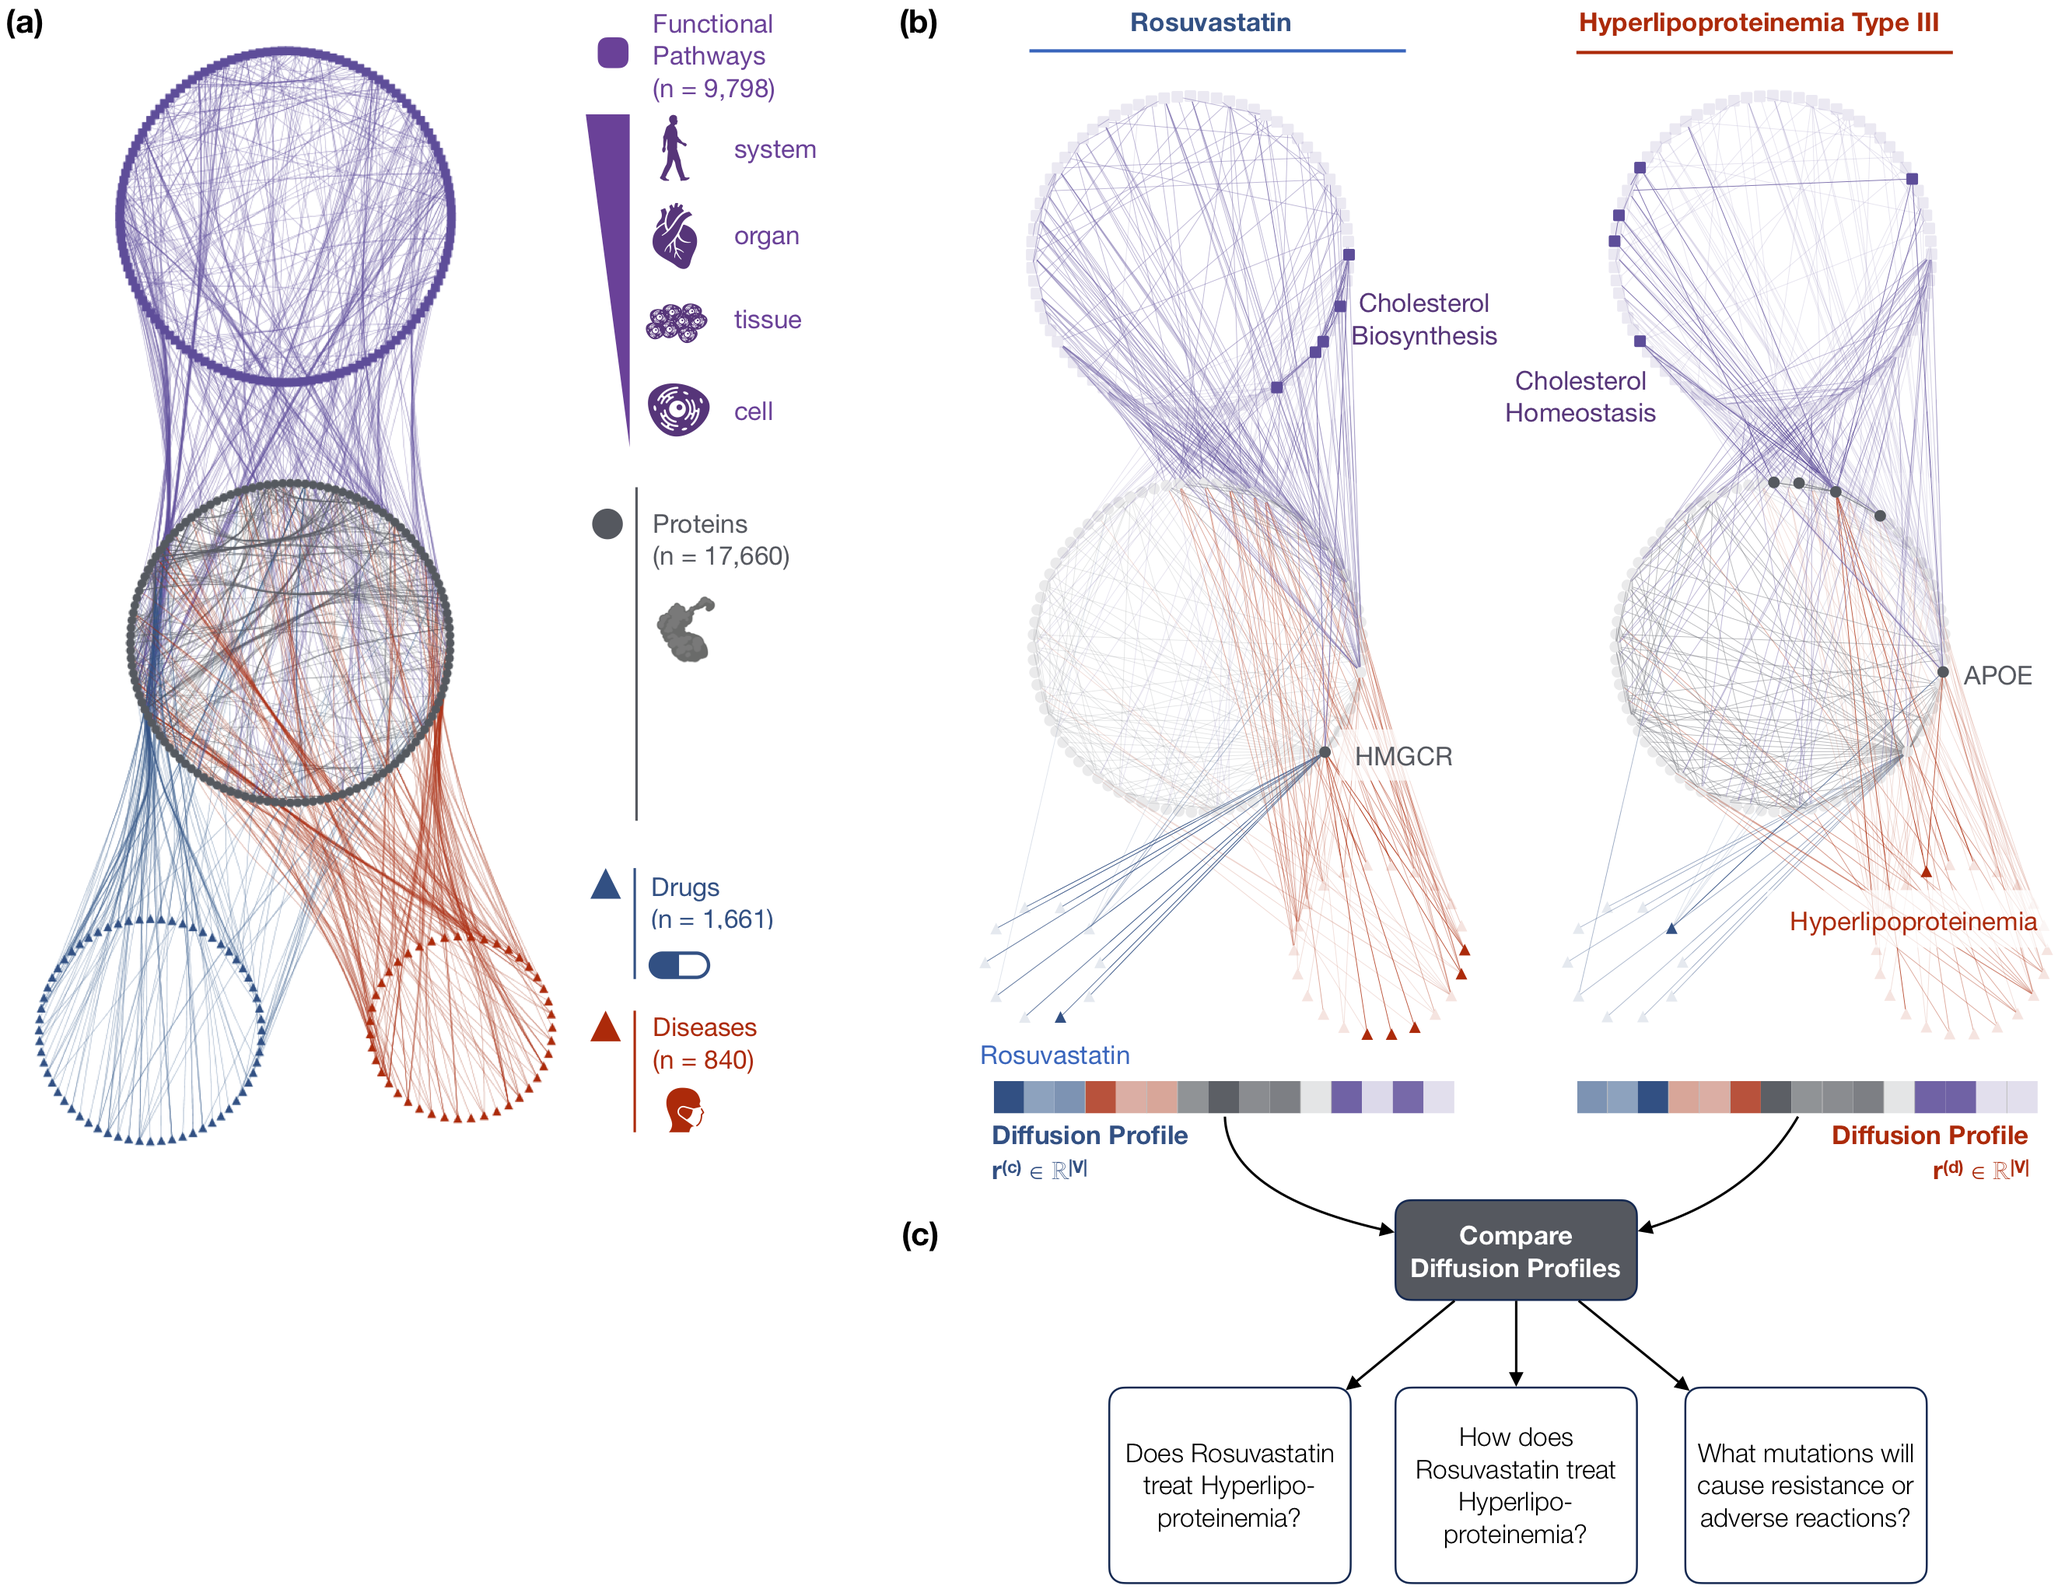
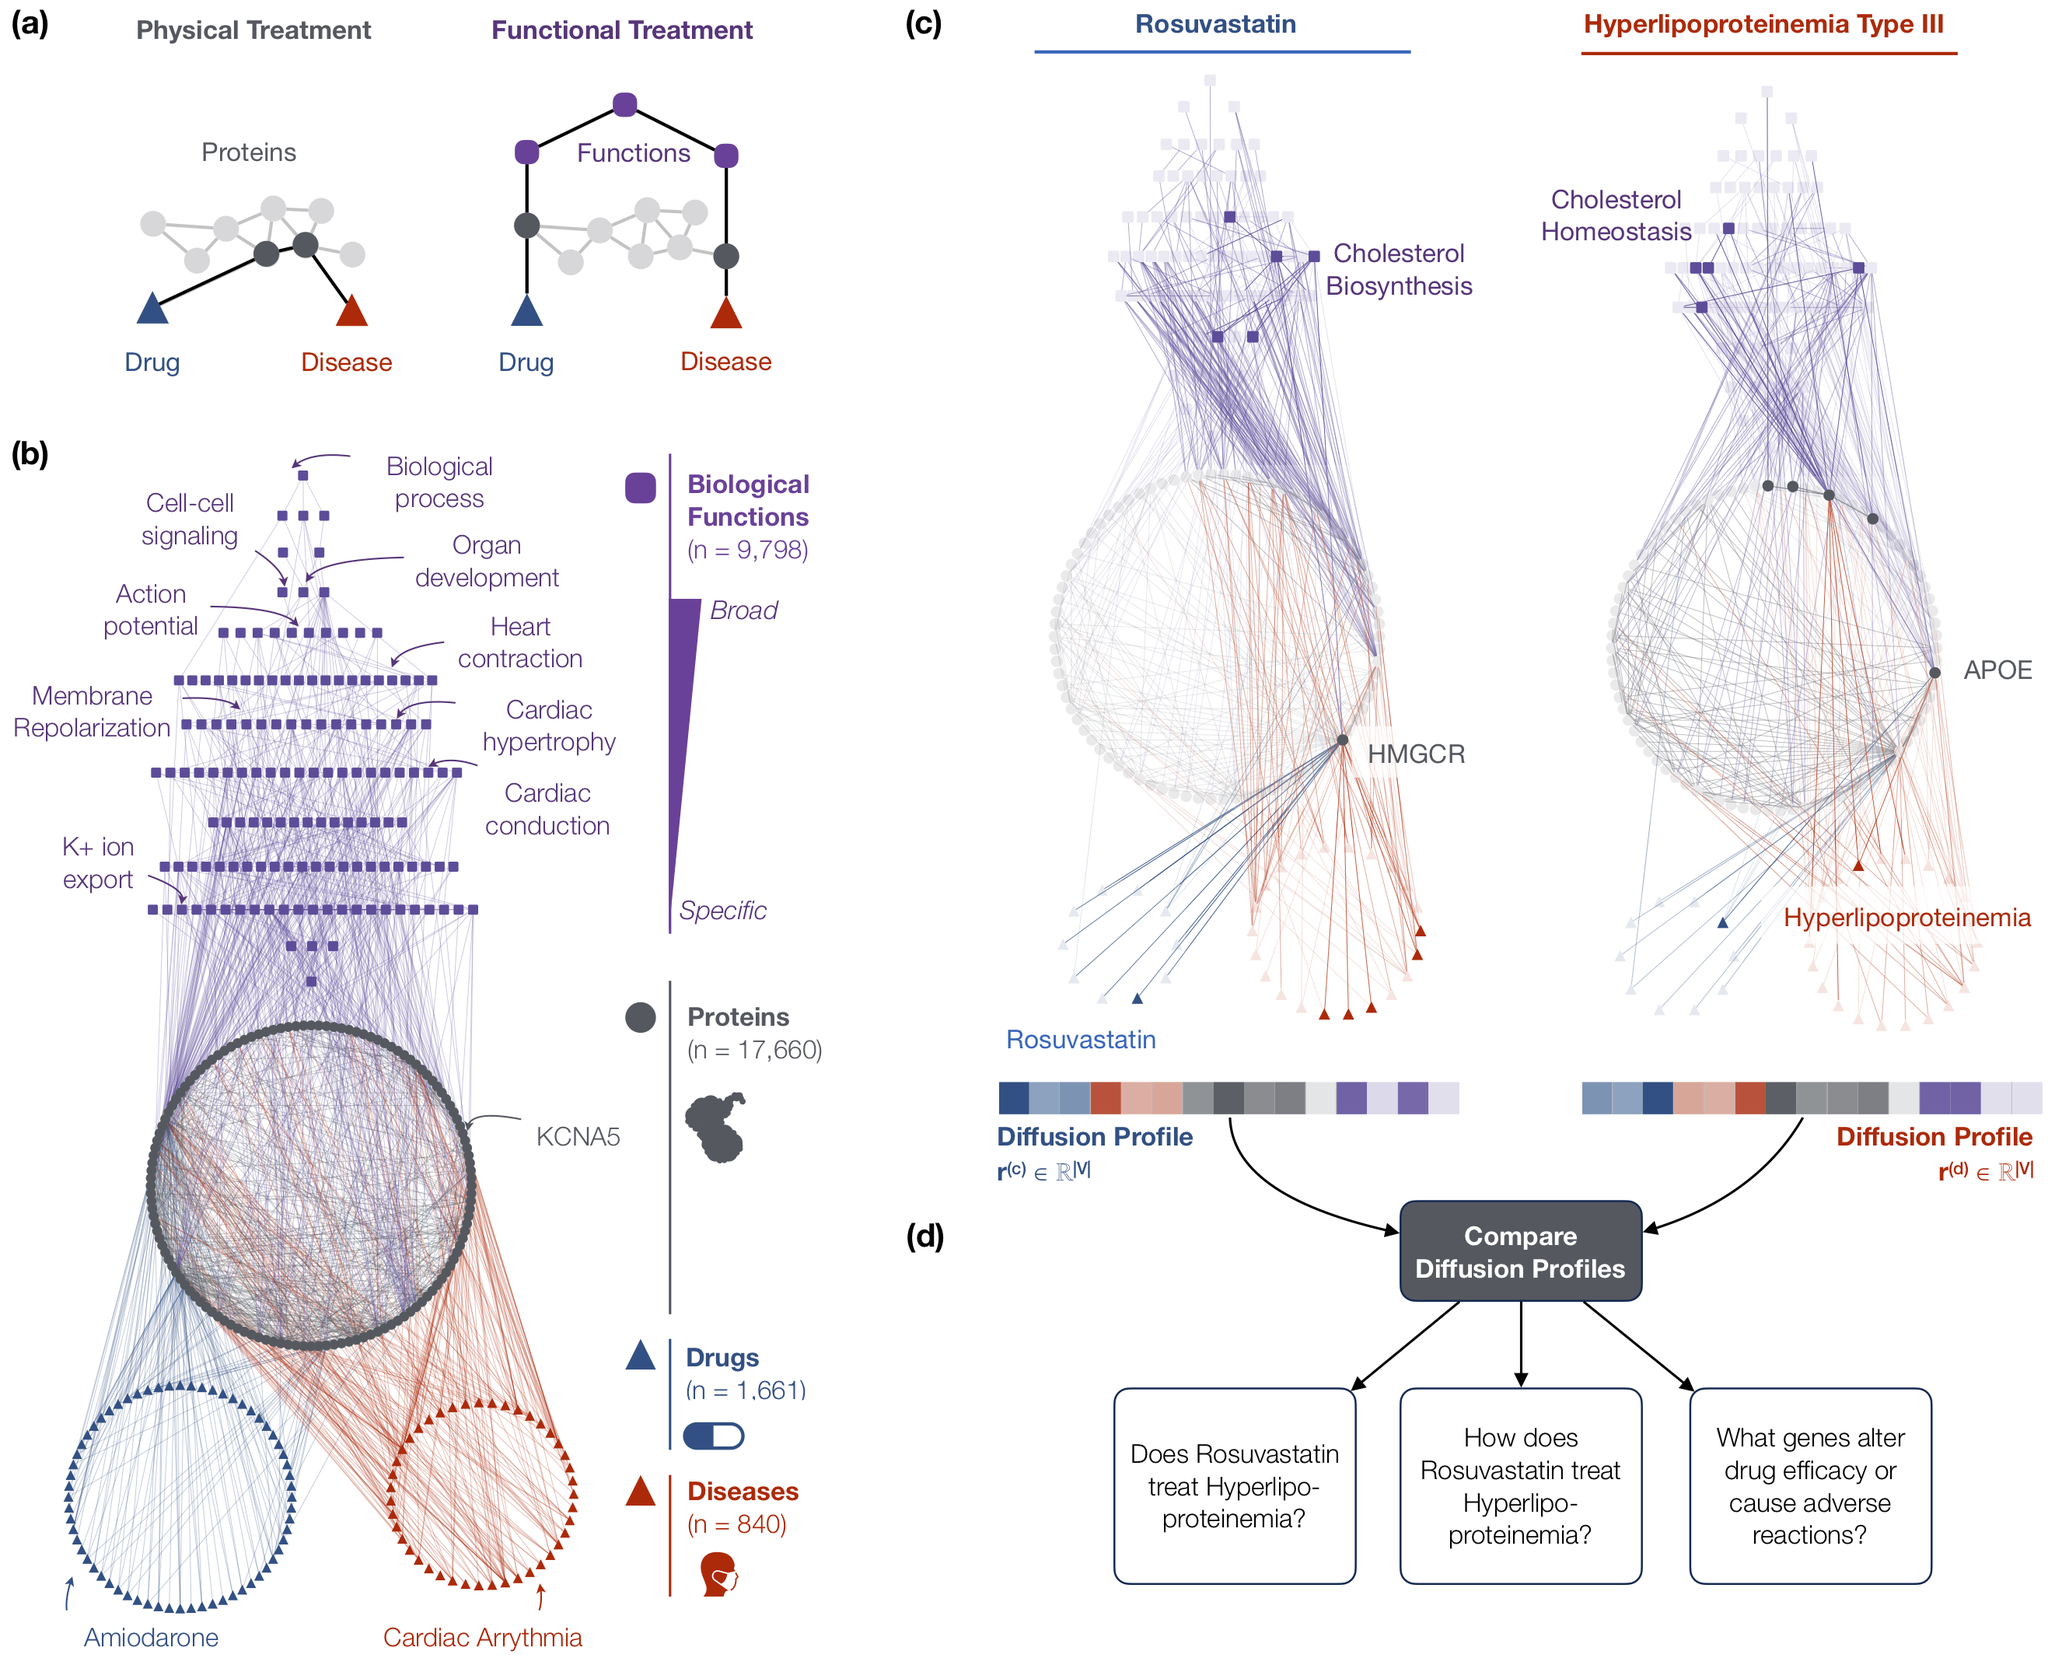
Updating names and README.

diff --git a/msi/msi.py b/msi/msi.py
@@ -2,8 +2,8 @@ from .node_to_node import NodeToNode
 from .drug_to_protein import DrugToProtein
 from .indication_to_protein import IndicationToProtein
 from .protein_to_protein import ProteinToProtein
-from .protein_to_functional_pathway import ProteinToFunctionalPathway
-from .functional_pathway_to_functional_pathway import FunctionalPathwayToFunctionalPathway
+from .protein_to_biological_function import ProteinToBiologicalFunction
+from .biological_function_to_biological_function import BiologicalFunctionToBiologicalFunction
 
 import networkx as nx
 import pandas as pd
@@ -14,19 +14,19 @@ import pickle
 DRUG = "drug"
 INDICATION = "indication"
 PROTEIN = "protein"
-FUNCTIONAL_PATHWAY = "functional_pathway"
-UP_FUNCTIONAL_PATHWAY = "up_functional_pathway"
-DOWN_FUNCTIONAL_PATHWAY = "down_functional_pathway"
+BIOLOGICAL_FUNCTION = "biological_function"
+UP_BIOLOGICAL_FUNCTION = "up_biological_function"
+DOWN_BIOLOGICAL_FUNCTION = "down_biological_function"
 WEIGHT = "weight"
 
 DRUG_PROTEIN = "drug-protein"
 INDICATION_PROTEIN = "indication-protein"
 PROTEIN_PROTEIN = "protein-protein"
-PROTEIN_FUNCTIONAL_PATHWAY = "protein-functional_pathway"
-FUNCTIONAL_PATHWAY_FUNCTIONAL_PATHWAY = "functional_pathway-functional_pathway"
+PROTEIN_BIOLOGICAL_FUNCTION = "protein-biological_function"
+BIOLOGICAL_FUNCTION_BIOLOGICAL_FUNCTION = "biological_function-biological_function"
 
 class MSI():
-	def __init__(self, nodes = [DRUG, INDICATION, PROTEIN, FUNCTIONAL_PATHWAY], edges = [DRUG_PROTEIN, INDICATION_PROTEIN, PROTEIN_PROTEIN, PROTEIN_FUNCTIONAL_PATHWAY, FUNCTIONAL_PATHWAY_FUNCTIONAL_PATHWAY], drug2protein_file_path = "data/drug_to_protein.tsv", drug2protein_directed = False, indication2protein_file_path = "data/indication_to_protein.tsv", indication2protein_directed = False, protein2protein_file_path = "data/protein_to_protein.tsv", protein2protein_directed = False, protein2functional_pathway_file_path = "data/protein_to_functional_pathway.tsv", protein2functional_pathway_directed = False, functional_pathway2functional_pathway_file_path = "data/functional_pathway_to_functional_pathway.tsv", functional_pathway2functional_pathway_directed = True):
+	def __init__(self, nodes = [DRUG, INDICATION, PROTEIN, BIOLOGICAL_FUNCTION], edges = [DRUG_PROTEIN, INDICATION_PROTEIN, PROTEIN_PROTEIN, PROTEIN_BIOLOGICAL_FUNCTION, BIOLOGICAL_FUNCTION_BIOLOGICAL_FUNCTION], drug2protein_file_path = "data/1_drug_to_protein.tsv", drug2protein_directed = False, indication2protein_file_path = "data/2_indication_to_protein.tsv", indication2protein_directed = False, protein2protein_file_path = "data/3_protein_to_protein.tsv", protein2protein_directed = False, protein2biological_function_file_path = "data/4_protein_to_biological_function.tsv", protein2biological_function_directed = False, biological_function2biological_function_file_path = "data/5_biological_function_to_biological_function.tsv", biological_function2biological_function_directed = True):
 		# Parameters
 		self.nodes = nodes
 		self.edges = edges
@@ -35,15 +35,15 @@ class MSI():
 		self.drug2protein_file_path = drug2protein_file_path
 		self.indication2protein_file_path = indication2protein_file_path
 		self.protein2protein_file_path = protein2protein_file_path
-		self.protein2functional_pathway_file_path = protein2functional_pathway_file_path
-		self.functional_pathway2functional_pathway_file_path = functional_pathway2functional_pathway_file_path
+		self.protein2biological_function_file_path = protein2biological_function_file_path
+		self.biological_function2biological_function_file_path = biological_function2biological_function_file_path
 
 		# Directed
 		self.drug2protein_directed = drug2protein_directed
 		self.indication2protein_directed = indication2protein_directed
 		self.protein2protein_directed = protein2protein_directed
-		self.protein2functional_pathway_directed = protein2functional_pathway_directed
-		self.functional_pathway2functional_pathway_directed = functional_pathway2functional_pathway_directed
+		self.protein2biological_function_directed = protein2biological_function_directed
+		self.biological_function2biological_function_directed = biological_function2biological_function_directed
 
 	def add_edges(self, edge_list, from_node_type, to_node_type):
 		for from_node, to_node in edge_list:
@@ -107,13 +107,13 @@ class MSI():
 			self.components["protein_to_protein"] = ProteinToProtein(self.protein2protein_directed, self.protein2protein_file_path)
 			self.add_edges(self.components["protein_to_protein"].edge_list, PROTEIN, PROTEIN)
 
-		if (FUNCTIONAL_PATHWAY in self.nodes) and (PROTEIN_FUNCTIONAL_PATHWAY in self.edges):
-			self.components["protein_to_functional_pathway"] = ProteinToFunctionalPathway(self.protein2functional_pathway_directed, self.protein2functional_pathway_file_path)
-			self.add_edges(self.components["protein_to_functional_pathway"].edge_list, PROTEIN, FUNCTIONAL_PATHWAY)
+		if (BIOLOGICAL_FUNCTION in self.nodes) and (PROTEIN_BIOLOGICAL_FUNCTION in self.edges):
+			self.components["protein_to_biological_function"] = ProteinToBiologicalFunction(self.protein2biological_function_directed, self.protein2biological_function_file_path)
+			self.add_edges(self.components["protein_to_biological_function"].edge_list, PROTEIN, BIOLOGICAL_FUNCTION)
 
-		if (FUNCTIONAL_PATHWAY in self.nodes) and (FUNCTIONAL_PATHWAY_FUNCTIONAL_PATHWAY in self.edges):
-			self.components["functional_pathway_to_functional_pathway"] = FunctionalPathwayToFunctionalPathway(self.functional_pathway2functional_pathway_directed, self.functional_pathway2functional_pathway_file_path)
-			self.add_edges(self.components["functional_pathway_to_functional_pathway"].edge_list, FUNCTIONAL_PATHWAY, FUNCTIONAL_PATHWAY)
+		if (BIOLOGICAL_FUNCTION in self.nodes) and (BIOLOGICAL_FUNCTION_BIOLOGICAL_FUNCTION in self.edges):
+			self.components["biological_function_to_biological_function"] = BiologicalFunctionToBiologicalFunction(self.biological_function2biological_function_directed, self.biological_function2biological_function_file_path)
+			self.add_edges(self.components["biological_function_to_biological_function"].edge_list, BIOLOGICAL_FUNCTION, BIOLOGICAL_FUNCTION)
 
 		# Make graph directional (copy forward and reverse of each edge)
 		self.graph = self.graph.to_directed()
@@ -199,18 +199,18 @@ class MSI():
 		self.cs_adj_dict = {node: {} for node in self.graph.nodes()}
 		for node in self.graph.nodes():
 			node_type = self.node2type[node]
-			if node_type == FUNCTIONAL_PATHWAY:
-				up_neighbors = list(self.components["functional_pathway_to_functional_pathway"].graph.successors(node))
-				down_neighbors = list(self.components["functional_pathway_to_functional_pathway"].graph.predecessors(node))
+			if node_type == BIOLOGICAL_FUNCTION:
+				up_neighbors = list(self.components["biological_function_to_biological_function"].graph.successors(node))
+				down_neighbors = list(self.components["biological_function_to_biological_function"].graph.predecessors(node))
 
 			successors = self.graph.successors(node)
 			for successor in successors:
 				successor_type = self.node2type[successor]
-				if (node_type == FUNCTIONAL_PATHWAY) and (successor_type == FUNCTIONAL_PATHWAY):
+				if (node_type == BIOLOGICAL_FUNCTION) and (successor_type == BIOLOGICAL_FUNCTION):
 					if successor in up_neighbors:
-						self.add_to_cs_adj_dict(node, UP_FUNCTIONAL_PATHWAY, successor)
+						self.add_to_cs_adj_dict(node, UP_BIOLOGICAL_FUNCTION, successor)
 					elif successor in down_neighbors:
-						self.add_to_cs_adj_dict(node, DOWN_FUNCTIONAL_PATHWAY, successor)
+						self.add_to_cs_adj_dict(node, DOWN_BIOLOGICAL_FUNCTION, successor)
 					else:
 						assert(False)
 				else:

diff --git a/tests/msi.py b/tests/msi.py
@@ -4,7 +4,7 @@ import networkx as nx
 
 def test_msi():
 	# Compare whether constructed MSI and saved MSI are the same
-	with open("data/top_msi/di_protein_go_graph.pkl", "rb") as f:
+	with open("data/10_top_msi/di_protein_go_graph.pkl", "rb") as f:
 		saved_graph = pickle.load(f)
 
 	msi = MSI()
@@ -18,6 +18,6 @@ def test_msi():
 	assert(set(msi_graph.edges()) == set(saved_graph.edges()))
 
 	# Each node has same type?
-	node_mapping = {"go": "functional_pathway"}
+	node_mapping = {"go": "biological_function"}
 	for node in msi_graph.nodes():
 		assert(msi_graph.node[node]["type"] == node_mapping.get(saved_graph.node[node]["type"], saved_graph.node[node]["type"]))

diff --git a/msi/biological_function_to_biological_function.py b/msi/biological_function_to_biological_function.py
@@ -1,5 +1,5 @@
 from .node_to_node import NodeToNode
 
-class FunctionalPathwayToFunctionalPathway(NodeToNode):
+class BiologicalFunctionToBiologicalFunction(NodeToNode):
 	def __init__(self, directed, file_path, sep = "\t"):
 		super().__init__(directed, file_path, sep)

diff --git a/msi/protein_to_biological_function.py b/msi/protein_to_biological_function.py
@@ -1,5 +1,5 @@
 from .node_to_node import NodeToNode
 
-class ProteinToFunctionalPathway(NodeToNode):
+class ProteinToBiologicalFunction(NodeToNode):
 	def __init__(self, file_path, sep = "\t"):
 		super().__init__(file_path, sep)

diff --git a/README.md b/README.md
@@ -1,13 +1,13 @@
-# Discovery of disease treatment mechanisms through the multiscale interactome
+# Identification of disease treatment mechanisms through the multiscale interactome
 
 ## Overview
 <p align="center">
 <img src="img/Overview.png" width="1100" align="center">
 </p>
 
-**The multiscale interactome is a powerful approach for the discovery of disease treatment mechanisms.** **(a)** The multiscale interactome models drug-disease treatments by integrating drugs, diseases, proteins, and functional pathways. **(b)** The diffusion profile of a drug or disease captures its effect on every protein and functional pathway. **(c)** By comparing the diffusion profiles of a drug and a disease, the multiscale interactome predicts whether the drug treats the disease, explains how the drug treats the disease, and explains how mutations interfere with the treatment mechanism to cause drug resistance or dangerous adverse reactions.
+**The multiscale interactome is a powerful approach to explain disease treatment mechanisms.** **(a)** Existing network approaches assume that drugs treat diseases by targeting proteins that are close to disease proteins in a network of physical interactions. However, drugs can also treat diseases by targeting distant proteins that affect the same biological functions. **(b)** The multiscale interactome models drug-disease treatments by integrating both proteins and a hierarchy of biological functions. **(c)** The diffusion profile of a drug or disease captures its effect on every protein and biological function. **(d)** By comparing the diffusion profiles of a drug and a disease, the multiscale interactome predicts drug-disease treatment, identifies proteins and biological functions related to treatment, and predicts genes that alter a treatment's efficacy and adverse reactions.
 
-For a detailed description of the multiscale interactome and its applications, please refer to our preprint [Discovery of disease treatment mechanisms through the multiscale interactome](https://www.biorxiv.org/content/10.1101/2020.04.30.069690v1) (2020).
+For a detailed description of the multiscale interactome and its applications, please refer to our preprint [Identification of disease treatment mechanisms through the multiscale interactome](https://www.biorxiv.org/content/10.1101/2020.04.30.069690v3) (2020).
 
 ## Data
 All data is available at http://snap.stanford.edu/multiscale-interactome/data/data.tar.gz. To download the data, please run the following code in the same directory this project is cloned to. This should result in a data/ folder populated with the relevant data.
@@ -33,7 +33,7 @@ msi.load()
 
 To calculate diffusion profiles with optimized edge weights, use the code below. Note that our implementation is parallelized and you will need to explicitly set the number of cores under num_cores.
 ```
-dp = DiffusionProfiles(alpha = 0.8595436247434408, max_iter = 1000, tol = 1e-06, weights = {'down_functional_pathway': 4.4863053901688685, 'indication': 3.541889556309463, 'functional_pathway': 6.583155399238509, 'up_functional_pathway': 2.09685000906964, 'protein': 4.396695660380823, 'drug': 3.2071696595616364}, num_cores = int(multiprocessing.cpu_count()/2) - 4, save_load_file_path = "results/")
+dp = DiffusionProfiles(alpha = 0.8595436247434408, max_iter = 1000, tol = 1e-06, weights = {'down_biological_function': 4.4863053901688685, 'indication': 3.541889556309463, 'biological_function': 6.583155399238509, 'up_biological_function': 2.09685000906964, 'protein': 4.396695660380823, 'drug': 3.2071696595616364}, num_cores = int(multiprocessing.cpu_count()/2) - 4, save_load_file_path = "results/")
 
 dp.calculate_diffusion_profiles(msi)
 ```
@@ -57,12 +57,12 @@ All data is provided at http://snap.stanford.edu/multiscale-interactome/data/dat
 1. Supplementary dataset of interactions between drugs and proteins
 2. Supplementary dataset of interactions between diseases and proteins
 3. Supplementary dataset of interactions between proteins and proteins
-4. Supplementary dataset of interactions between proteins and functional pathways
-5. Supplementary dataset of hierarchy of interactions between functional pathways
+4. Supplementary dataset of interactions between proteins and biological functions
+5. Supplementary dataset of hierarchy of interactions between biological functions
 6. Supplementary dataset of approved drug-disease pairs
 7. Supplementary dataset of drug classes according to Anatomical Therapeutic Chemical Classification
 8. Supplementary dataset of selected gene expression signatures from the Broad Connectivity Map
-9. Supplementary dataset of genetic mutations that alter drug response from PharmGKB
+9. Supplementary dataset of genes that alter drug response from PharmGKB
 10. Supplementary dataset of optimized diffusion profiles
 
 ## Contact
@@ -70,12 +70,11 @@ Please contact Camilo Ruiz (caruiz@cs.stanford.edu) with any questions.
 
 ## Citation
 ```
-@article{ruiz2020discovery,
-  title={Discovery of disease treatment mechanisms through the multiscale interactome},
+@article{ruiz2020identification,
+  title={Identification of disease treatment mechanisms through the multiscale interactome},
   author={Ruiz, Camilo and Zitnik, Marinka and Leskovec, Jure},
   journal={bioRxiv},
   year={2020},
   publisher={Cold Spring Harbor Laboratory}
 }
-``
-`
+```
